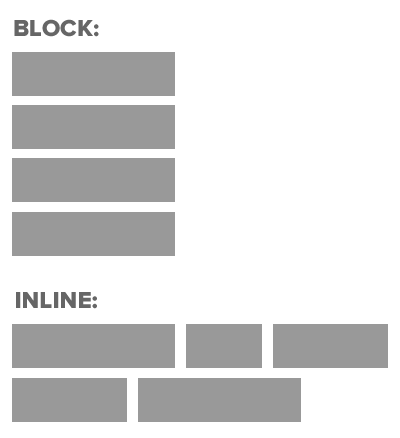
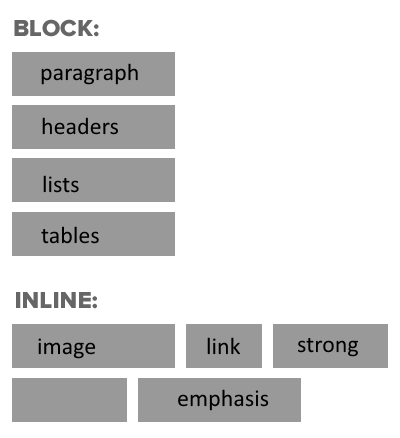
merged the inline vs block pages

diff --git a/class3.html b/class3.html
@@ -160,7 +160,8 @@
           </div>
         </section>
         <!-- Inline v block again-->
-        <section>
+        <!-- removing this page, i will talk about all this on the preceding page -->
+        <!--section>
           <h3>Block &amp; Inline Elements,</h3>
           <ul>
             <li>CSS divides HTML into two types: inline and block.</li>
@@ -168,7 +169,7 @@
             <li>Inline elements: img, a, em, strong</li>
             <li>Block elements: p, h1, ul, li, almost everything else</li>
           </ul>
-        </section>
+        </section-->
         <section> 
         	<h3>Element: Div</h3>
 <pre><code> 
